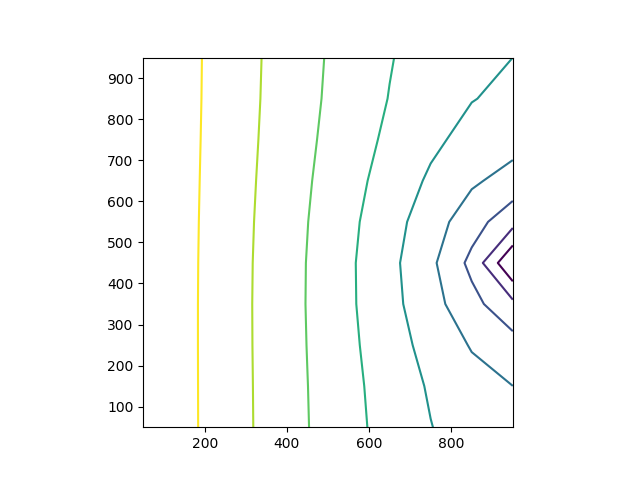
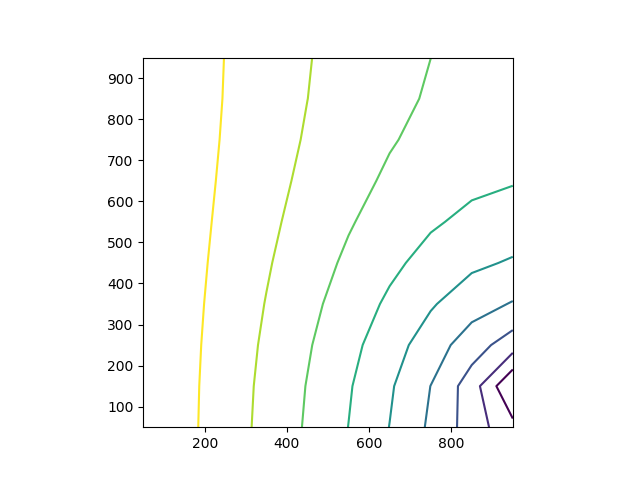
reversed velocity feilds in the y direction

diff --git a/partipy/read_cbb.py b/partipy/read_cbb.py
@@ -17,6 +17,8 @@ kstpkper_list = cbb.get_kstpkper()
 frf = cbb.get_data(text='FLOW RIGHT FACE', totim=times[-1])[0] # Flow Right Face (flow from the column to the right--higher column number),
 fff = cbb.get_data(text='FLOW FRONT FACE', totim=times[-1])[0] # Flow Front Face (flow from the row below--higher row number)
 # fff = cbb.get_data(text='FLOW LOWER FACE', totim=times[-1])[0] # Flow Lower Face (flow from layer below--higher layer number)
+
+
 starting_pt = (1,0)
 
 # Model domain and grid definition
@@ -44,65 +46,64 @@ def what_cell_am_i_in(pt,nlay,nrow,ncol,delr,delc):
 
     return lay, row, col
 
-def track_particle(starting_locs,n=.3,delt=20,ntimes=30):
+def track_particle(starting_locs,n=.3,delt=30,ntimes=50):
     end_pts = {}
     for i in range(len(starting_locs)):
         x0, y0 = starting_locs[i]
-        print(x0,y0)
         xpts, ypts = [x0], [y0]
         for t in range(ntimes):
             xp0, yp0 = xpts[-1], ypts[-1]
 
             l,r,c = what_cell_am_i_in((xp0,yp0),1,nrow,ncol,delc,delr)
-            vxp1 = (frf[l][r,c]) / (delr[c] * thk * n)
-            xp1 = xp0+ vxp1 * delt/2 # x0 + (vx)0 * delt
+            print(xp0,yp0)
+            print(l,r,c)
+            vxp0 = (frf[l][r,c]) / (delr[c] * thk * n)
+            xp1 = xp0 + vxp0 * delt/2 # x0 + (vx)0 * delt
 
-            vyp1 = (fff[l][r,c]) / (delc[r] * thk * n)
-            yp1 = yp0+ vyp1 * delt/2 # y0 + (vy)0 * delt
+            vyp0 = (fff[l][r,c]) / (delc[r] * thk * n)
+            yp1 = yp0 - vyp0 * delt/2 # y0 + (vy)0 * delt
+
 
             l,r,c = what_cell_am_i_in((xp1,yp1),1,nrow,ncol,delc,delr)
-            vxp2 = (frf[l][r,c]) / (delr[c] * thk * n)
-            xp2 = xp1 + vxp2 * delt/2
+            print(xp1,yp1)
+            print(l,r,c)
+            vxp1 = (frf[l][r,c]) / (delr[c] * thk * n)
+            xp2 = xp0 + vxp1 * delt/2
 
-            vyp2 = (fff[l][r,c]) / (delc[r] * thk * n)
-            yp2 = yp1 + vyp2 * delt/2
+            vyp1 = (fff[l][r,c]) / (delc[r] * thk * n)
+            yp2 = yp0 -vyp1 * delt/2
+
 
             l,r,c = what_cell_am_i_in((xp2,yp2),1,nrow,ncol,delc,delr)
-            vxp3 = (frf[l][r,c]) / (delr[c] * thk * n)
-            xp3 = xp2 + vxp3 * delt/2
+            print(xp2,yp2)
+            print(l,r,c)
+            vxp2 = (frf[l][r,c]) / (delr[c] * thk * n)
+            xp3 = xp0 + vxp2 * delt
 
-            vyp3 = (fff[l][r,c]) / (delc[r] * thk * n)
-            yp3 = yp2 + vyp3 * delt/2
-
+            vyp2 = (fff[l][r,c]) / (delc[r] * thk * n)
+            yp3 = yp0 - vyp2 * delt
 
             l,r,c = what_cell_am_i_in((xp3,yp3),1,nrow,ncol,delc,delr)
-            vxp4 = (frf[l][r,c]) / (delr[c] * thk * n)
-            xp4 = xp3 + vxp4 * delt
-
-            vyp4 = (fff[l][r,c]) / (delc[r] * thk * n)
-            yp4 = yp3 + vyp4 * delt
-            # print(yp4)
+            print(xp3,yp3)
+            print(l,r,c)
             # exit()
-            xpts.append(xp4)
-            ypts.append(yp4)
-        end_pts[i] = [xpts,ypts]
 
-        # print(x0, xp1, xp2, xp3, xp4)
-        #
-        # print(y0, yp1, yp2, yp3, yp4)
+            xpts.append(xp3)
+            ypts.append(yp3)
+        end_pts[i] = [xpts,ypts]
 
     return end_pts
 
 # for x
 	# for t in [0,]
-starting_locs = [(150,300),(150,850),(600,500)]
+starting_locs = [(199,250),(150,850),(400,510)]
 
 particles = track_particle(starting_locs)
 px,py = particles[0]
 px1,py1 = particles[1]
 px2,py2 = particles[2]
 
-print(px,py)
+# print(px,py)
 
 
 
@@ -125,7 +126,7 @@ modelmap = flopy.plot.ModelMap(model=mf, layer=0)
 qm = modelmap.plot_ibound()
 lc = modelmap.plot_grid()
 hds = bf.HeadFile(os.path.join(model_ws, modelname + '.hds'))
-head = hds.get_data(totim=1.0)
+head = hds.get_data(totim=30)
 # levels = np.linspace(0, 10, 11)
 # cs = modelmap.contour_array(head, levels=levels)
 ax.scatter(px, py)

diff --git a/partipy/partipy.py b/partipy/partipy.py
@@ -1,7 +1,71 @@
 import numpy as np
+import flopy
+import flopy.utils.binaryfile as bf
 
 
 class track_particles():
-	def __init__(self,cbbfile,disfile):
+	def __init__(self,cbbfile,model_ws,namfile,starting_locs,n,delt,ntimes):
+		self.cbbobj = bf.CellBudgetFile(os.path.join(model_ws,modelname+'.cbc'))
+		self.times = cbbobj.get_times()
+		self.mf = flopy.modflow.Modflow.load(os.path.join(model_ws,namfile))
+		self.delr = self.mf.dis.delr.array
+		self.delc = self.mf.dis.delc.array
+		self.nlay = self.mf.dis.nlay
+		self.nrow = self.mf.dis.nrow
+		self.ncol = self.mf.dis.ncol
 
+	def what_cell_am_i_in(pt,nlay,nrow,ncol,delr,delc):
+	    delr = delr.cumsum()
+	    delc = delc.cumsum()
+	    x,y = pt
 
+	    row = np.searchsorted(delr,y)
+	    col = np.searchsorted(delc,x)
+	    lay = 0 # we'll get there
+
+	    return lay, row, col
+
+	def get_flow_faces(time,lay=0):
+		idx = np.searchsorted(self.times,time)
+		fff = cbb.get_data(text='FLOW FRONT FACE', totim=self.times[idx])[0]
+		frf = cbb.get_data(text='FLOW RIGHT FACE', totim=slef.times[idx])[0]
+		return fff, frf
+
+	def rk4(starting_locs,n=.3,delt=20,ntimes=30):
+		# Runge-Kutta implicit method
+		end_pts = {}
+		for i in range(len(starting_locs)):
+			x0, y0 = starting_locs[i]
+			print(x0,y0)
+			xpts, ypts = [x0], [y0]
+			for t in range(ntimes):
+				xp0, yp0 = xpts[-1], ypts[-1]
+
+				l,r,c = what_cell_am_i_in((xp0,yp0),1,nrow,ncol,delc,delr)
+				fff,frf = get_flow_faces(self.times+t*delt)
+
+				vxp0 = (frf[l][r,c]) / (delr[c] * thk * n)
+				xp1 = xp0+ vxp0 * delt/2 # x0 + (vx)0 * delt
+
+				vyp0 = (fff[l][r,c]) / (delc[r] * thk * n)
+				yp1 = yp0+ vyp0 * delt/2 # y0 + (vy)0 * delt
+
+				l,r,c = what_cell_am_i_in((xp1,yp1),1,nrow,ncol,delc,delr)
+				vxp1 = (frf[l][r,c]) / (delr[c] * thk * n)
+				xp2 = xp0 + vxp1 * delt/2
+
+				vyp1 = (fff[l][r,c]) / (delc[r] * thk * n)
+				yp2 = yp0 + vyp1 * delt/2
+
+				l,r,c = what_cell_am_i_in((xp2,yp2),1,nrow,ncol,delc,delr)
+				vxp2 = (frf[l][r,c]) / (delr[c] * thk * n)
+				xp3 = xp0 + vxp2 * delt
+
+				vyp2 = (fff[l][r,c]) / (delc[r] * thk * n)
+				yp3 = yp0 + vyp2 * delt
+
+			xpts.append(xp3)
+			ypts.append(yp3)
+			end_pts[i] = [xpts,ypts]
+
+			return end_pts

diff --git a/examples/tutorial01.py b/examples/tutorial01.py
@@ -25,15 +25,15 @@ botm = np.linspace(ztop, zbot, nlay + 1)
 nper=3
 # Create the discretization object
 dis = flopy.modflow.ModflowDis(mf, nlay, nrow, ncol, delr=delr, delc=delc,
-                               top=ztop, botm=botm[1:],nper=nper)
+                               top=ztop, botm=botm[1:],nper=nper,perlen=10)
 
 # Variables for the BAS package
 ibound = np.ones((nlay, nrow, ncol), dtype=np.int32)
 ibound[:, :, 0] = -1
-ibound[:, 5, -1] = -1
+ibound[:, 8, -1] = -1
 strt = np.ones((nlay, nrow, ncol), dtype=np.float32)
 strt[:, :, 0] = 10.
-strt[:, 5, -1] = 0
+strt[:, 8, -1] = 0
 bas = flopy.modflow.ModflowBas(mf, ibound=ibound, strt=strt)
 
 # Add LPF package to the MODFLOW model
@@ -60,7 +60,7 @@ import flopy.utils.binaryfile as bf
 
 plt.subplot(1, 1, 1, aspect='equal')
 hds = bf.HeadFile(modelname + '.hds')
-head = hds.get_data(totim=1.0)
+head = hds.get_data(totim=30)
 levels = np.arange(1, 10, 1)
 extent = (delr / 2., Lx - delr / 2., Ly - delc / 2., delc / 2.)
 plt.contour(head[0, :, :], levels=levels, extent=extent)
